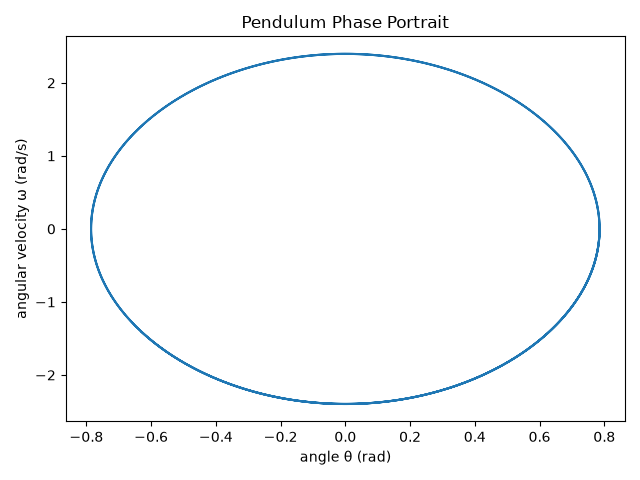
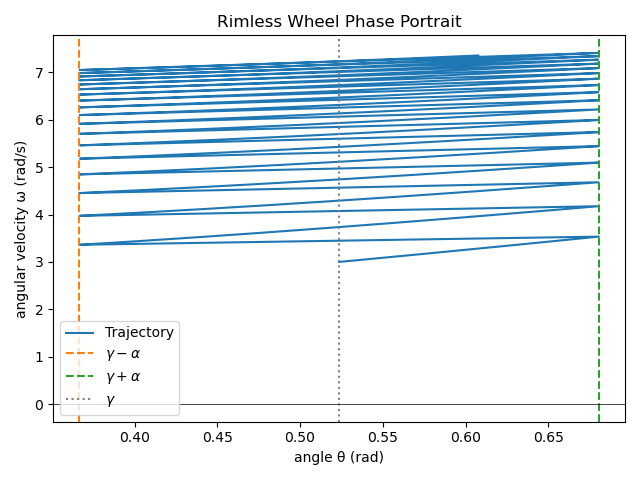
Move assignment 1 script back to top level

diff --git a/assignment_1.py b/assignment_1.py
@@ -1,0 +1,66 @@
+# MAE 5510 Assignment 1 Rimless Wheel
+import numpy as np
+import matplotlib.pyplot as plt
+from math import pi
+
+from models import rimless_wheel as model
+from integrators_models import rk4 as integrator
+
+# Parameters of Rimless Wheel
+params = {
+        "gravity": 9.81,  # gravity m/s^2)
+        "length": 0.5,  # spokes length (m)
+        "mass": .2,  # point mass (kg)
+
+    }
+N = 20 # number of spokes
+gamma = pi/6 # inclination angle (rad) 
+alpha = pi/N # half the angle between adjacent spokes
+coeff_restitution = 0.1  # coefficient of restitution 
+
+# Set-Up
+initial_state = np.array([gamma, 3]) # Starts at angle  from the vertical, with 0 initial angular velocity
+timestep = 0.0001 
+sim_time = 1
+
+n_timesteps = int(sim_time / timestep) + 1 # Gets an integer for the number of time steps from the specified sim time and timestep
+time_traj = np.arange(n_timesteps) * timestep # Creates an array of values from 0 to # of timesteps (minus 1) and multiplies each by the timestep, (creates time vector)
+state_traj = np.zeros((2, n_timesteps)) # 2 rows and # of timesteps columns array of zeros, used to store position and velocity
+state_traj[:, 0] = initial_state
+
+# Simulation Loop
+for step, t in enumerate(time_traj[:-1]):
+    state_traj[:, step+1] = integrator.integrate(t, state_traj[:, step], params, timestep, model)
+
+    theta = state_traj[0, step+1]
+    theta_dot = state_traj[1, step+1]
+
+    rolling_foward = theta_dot>0 and theta>= gamma + alpha # end condition of rolling foward is theta=gamma+alpha
+    rolling_backward = theta_dot<0 and theta<= gamma - alpha # end condition of rolling backward is alpha=gamma-theta
+
+    if rolling_foward or rolling_backward:
+        if  rolling_foward == True:
+            theta = theta - 2*alpha
+        elif rolling_backward == True:
+            theta = theta + 2*alpha
+
+        theta_dot=theta_dot*np.cos(2*alpha)
+        state_traj[0, step+1] = theta
+        state_traj[1, step+1] = theta_dot
+
+
+# Phase Portrait Plot
+plt.figure()
+plt.plot(state_traj[0], state_traj[1], label='Trajectory')
+plt.xlabel("angle θ (rad)")
+plt.ylabel("angular velocity ω (rad/s)")
+plt.title("Rimless Wheel Phase Portrait")
+plt.tight_layout()
+
+plt.axvline(gamma - alpha, color="tab:orange", linestyle="--", label=r"$\gamma - \alpha$")
+plt.axvline(gamma + alpha, color="tab:green", linestyle="--", label=r"$\gamma + \alpha$")
+plt.axvline(gamma, color="gray", linestyle=":", label=r"$\gamma$")
+plt.axhline(0, color="black", linewidth=0.5)
+plt.legend()
+plt.savefig("phase_portrait.png")
+print("Phase Portrait complete, Please check folder for updated phase_portrait.png")

diff --git a/models/rimless_wheel.py b/models/rimless_wheel.py
@@ -1,0 +1,17 @@
+import numpy as np
+
+def dynamics(t, state, params):
+    gravity = params["gravity"]
+    length = params["length"]
+    mass = params["mass"]
+
+    angle = state[0]
+    angular_velocity = state[1]
+
+    angular_acceleration = (
+     mass * gravity * length * np.sin(angle)
+    ) / (mass * length**2)
+
+    state_derivative = np.array([angular_velocity, angular_acceleration])
+    return state_derivative
+

diff --git a/assignment_0.py b/assignment_0.py
@@ -60,4 +60,6 @@ plt.savefig("phase_portrait.png")
 
 
 
+
+
 print("Plots complete")
